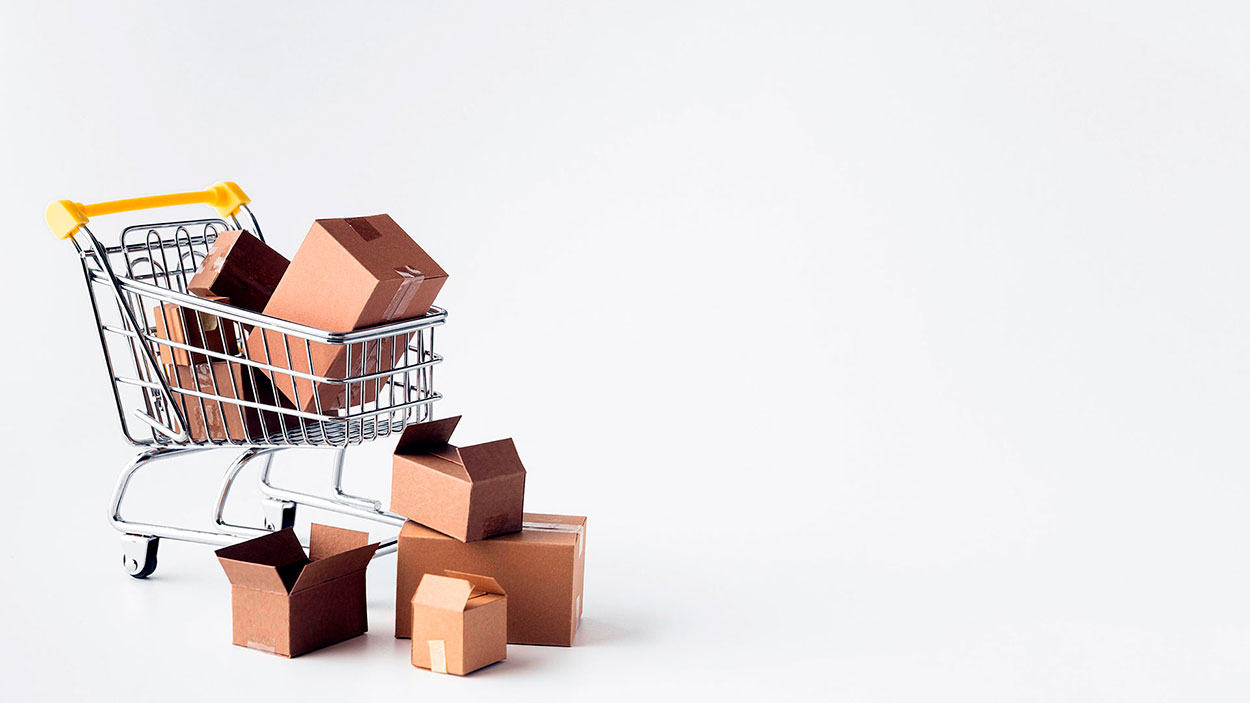
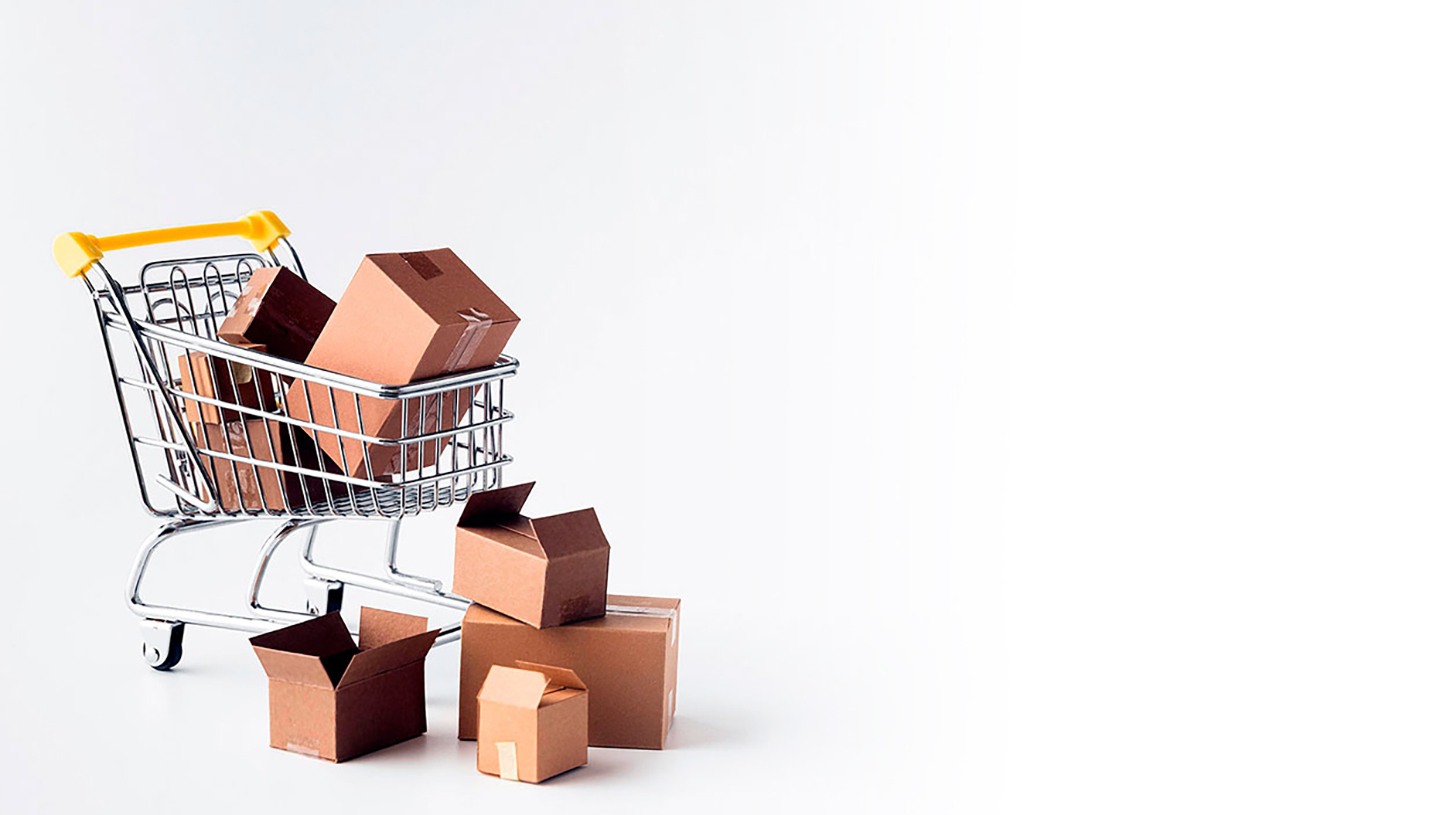
ajustes background

Changed region(s): [[0.0624, 0.2987, 0.3432, 0.6572], [0.1872, 0.7468, 0.2184, 0.7767]]

diff --git a/Aula 12/css/lp.css b/Aula 12/css/lp.css
@@ -8,20 +8,29 @@ body {
 }
 
 
-header {
-    width: 100%;
-    height: 100vmax;
+.header {
+    width: 100%;  
+    height: 71.5vh;
+    background-color: rgb(137, 137, 137);    
+    display: block;  
+    float: left;
     background-image: url(../images/cyber-monday-retail-sales.jpg);
-    background-repeat: no-repeat;
+    background-repeat: no-repeat;  
     background-size: contain;
+    
+}
+
+.logo {
+    width: 200px;
+    background-color: black;
+    float: right;
+    margin: 5% 20% 0 65vw;
 }
 
 h1 {
     float: right;
     font-size: 2rem;
-    margin-top: 10vh;
-    margin-left: 60em;
-    margin-right: 10%;
+    margin: 1% 10% 2% 60vw;
     text-align: center;
     line-height: 1.5;
     color: black;
@@ -32,13 +41,18 @@ h1 {
 
 .button {
     float: right;
-    margin-top: 1rem;
-    margin-left: 60%;
-    margin-right: 10%;
+    margin: 0 17% 2.4%;
     color: rgb(244, 214, 157);
     background-color: rgb(136, 121, 121);
     padding: 1.2rem;
     font-weight: 700;
     border-radius: 30px;
 
+}
+
+/* bloco 1 */
+
+.bloco1 {
+    background-color: orange;
+    margin: 0 0 0 0 !important;
 }

diff --git a/saiba-mais.html b/saiba-mais.html
@@ -22,24 +22,28 @@
 
 <body>
 
-    <header>
-        
-        
+    <header class="header">              
+        <img class="logo" src="./Aula 12/images/logo.png" alt="">
 
          <h1>A ESTRATÉGIA IDEAL DE <b>PLANEJAMENTO BLACK FRIDAY</b><br> A UM CLIQUE!</h1>
 
          <div class="button">QUERO ACESSAR</div>
-
          
     </header>
 
     <section>
-
         
+    <article class="bloco1">
+    
             
+        <div>
+        <h2>Como aproveitar a Black Friday para fidelizar os clientes?</h2>
+        <p>Para quem utiliza o e-commerce como um canal de venda, seja por meio de site próprio, seja pelos marketplaces, a primeira dica é ser ágil na preparação e na postagem dos pedidos nos parceiros logísticos para que não ocorram atrasos no prazo de entrega combinado. Também se atente ao chat para esclarecer eventuais dúvidas ou lidar com reclamações.</p>
         </div>
 
-        </div>
+    </article>
+
+
 
             <h3 id="form"><span></span></h3>
 
